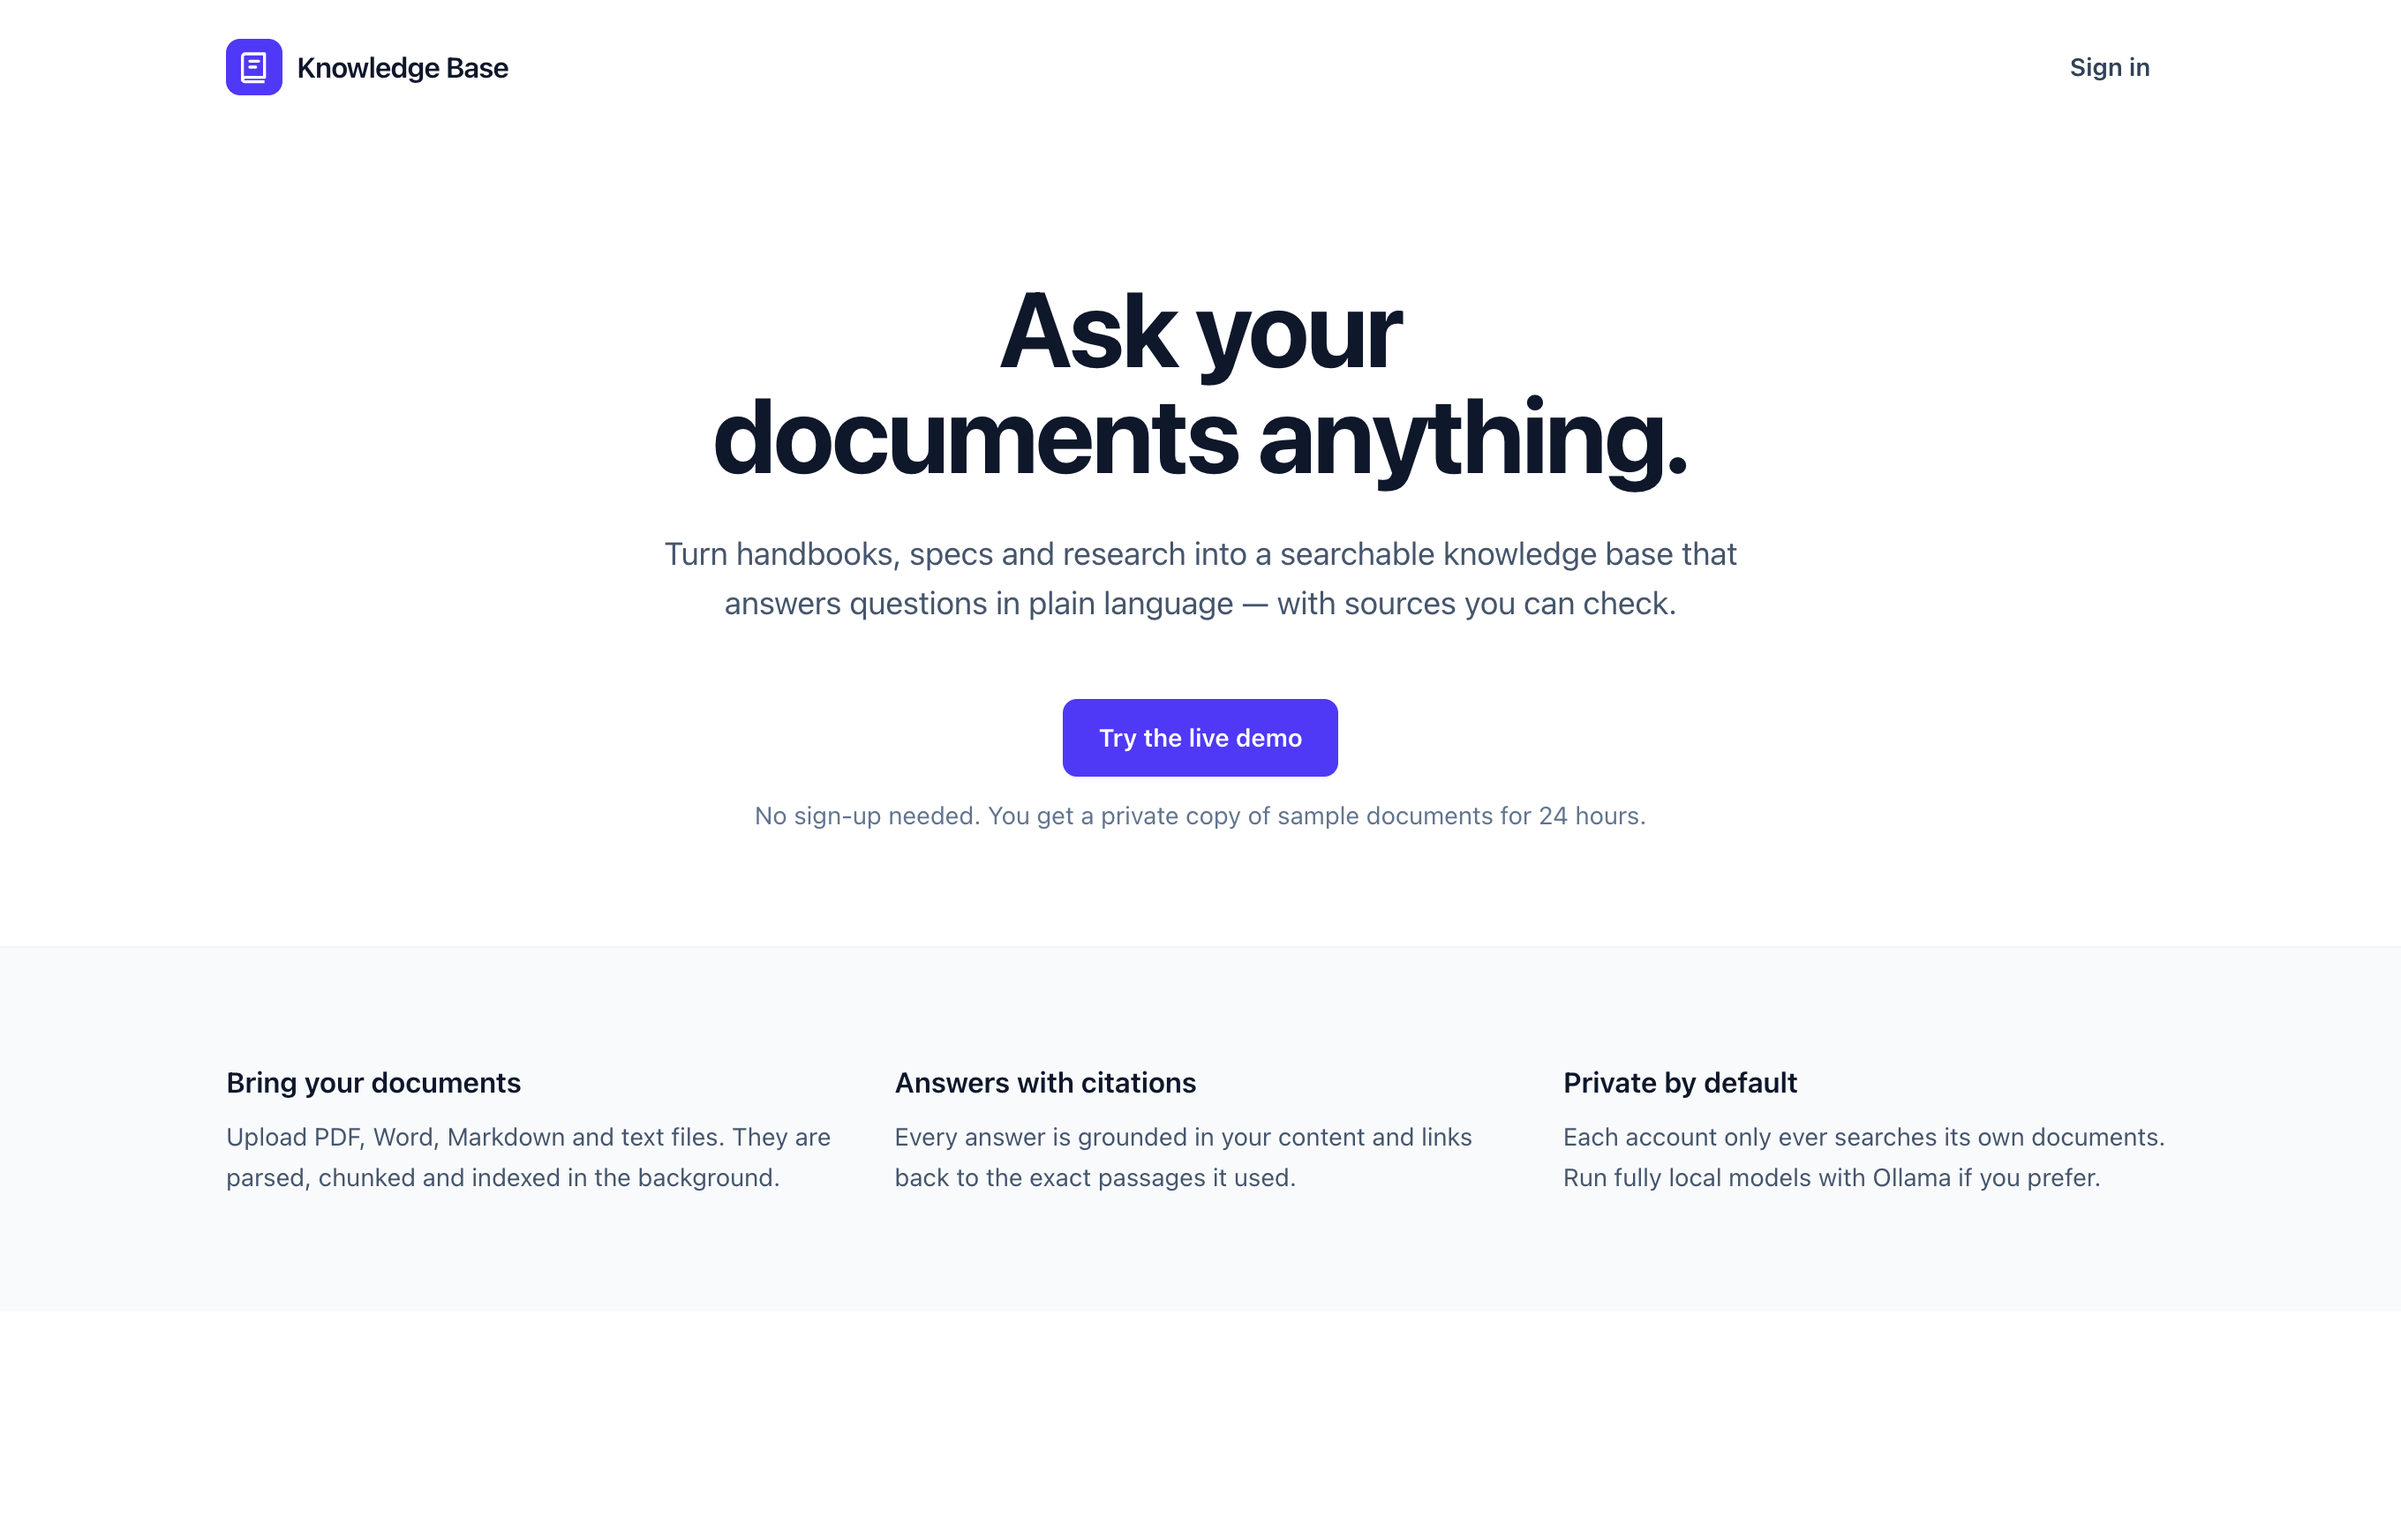
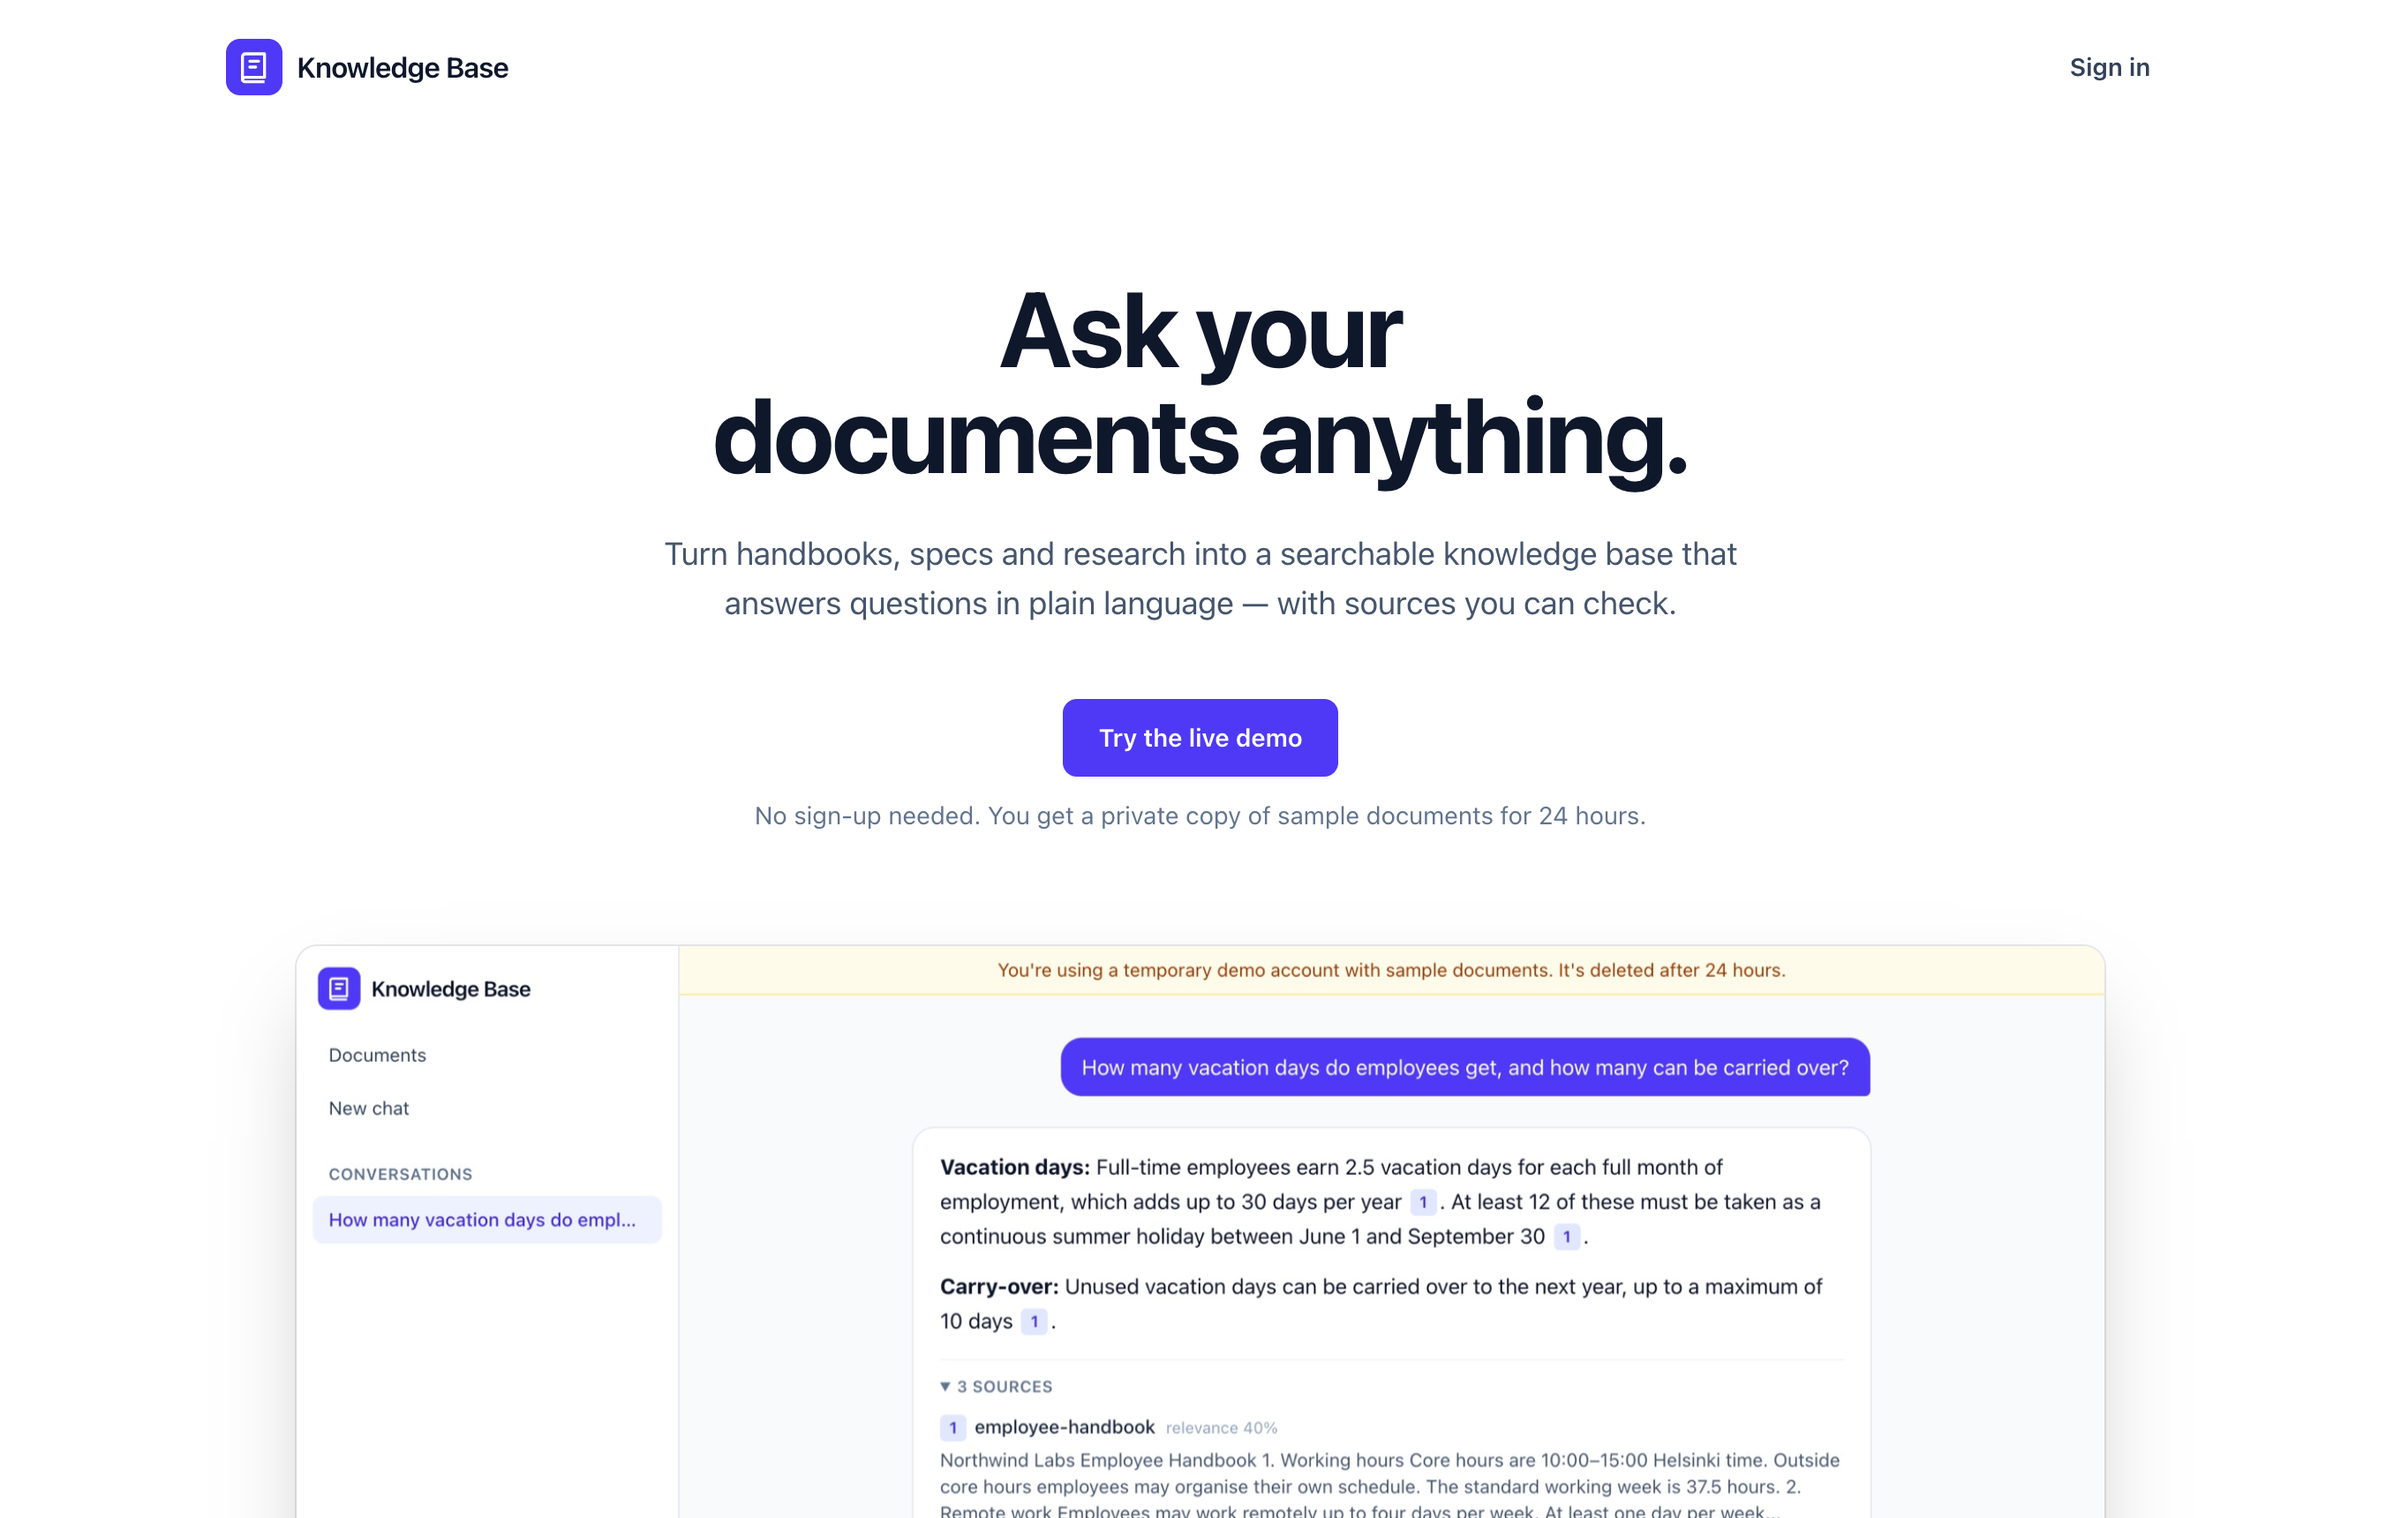
Polish: landing page product image, quiet Caddy logs, new roadmap
- Landing page shows a real product screenshot (a cited answer); the
  template's original image was a 0-byte file and had been removed
- Docker: make Caddy's /data and /config dirs writable for www-data, so
  Render logs no longer show "permission denied" errors at start; the CI
  container smoke test now fails on permission errors in the logs
- README: roadmap rewritten as shipped / next / later / known
  limitations; documents the relevance-cutoff calibration for OpenAI
  embeddings; landing screenshot refreshed

Changed region(s): [[0.375, 0.6779, 0.9062, 1.0], [0.0938, 0.6163, 0.3438, 0.832], [0.4062, 0.6163, 0.75, 0.6471]]

diff --git a/frontend/src/pages/LandingPage.tsx b/frontend/src/pages/LandingPage.tsx
@@ -1,4 +1,5 @@
 import { Link } from 'react-router'
+import productChat from '../assets/product-chat.jpg'
 import { useAuth } from '../auth/useAuth'
 import { DemoButton } from '../components/DemoButton'
 import { Logo } from '../components/ui'
@@ -67,6 +68,14 @@ export function LandingPage() {
               )
             )}
           </div>
+          <img
+            src={productChat}
+            width={2000}
+            height={1264}
+            decoding="async"
+            alt="Knowledge Base answering a question about vacation days, with numbered citations and the source passages it used"
+            className="mx-auto mt-16 h-auto w-full max-w-5xl rounded-xl shadow-2xl ring-1 ring-slate-900/10"
+          />
         </section>
 
         <section className="border-t border-slate-100 bg-slate-50">

diff --git a/README.md b/README.md
@@ -250,6 +250,8 @@ Connect the repository. Use root directory `frontend`, build command `npm run bu
 - **Registration is off** (`KB_REGISTRATION_ENABLED=false`).
 - **Daily caps** bound spend: `KB_LIMIT_QUESTIONS_PER_USER` (15), `KB_LIMIT_QUESTIONS_PER_DAY` (100, all users; about $0.70/day at most with Claude Opus 5.5), `KB_LIMIT_DOCUMENTS_PER_USER` (6), and uploads up to 2 MB.
 
+The relevance cutoff `KB_RETRIEVAL_MIN_SCORE=0.2` was calibrated for `text-embedding-3-small` on the sample documents plus 15 unanswerable questions. Answerable questions scored 0.29–0.61, plausible but uncovered ones ("What is the dress code?") 0.20–0.57, and unrelated ones ("Who won the World Cup?") at most 0.12. So the cutoff filters out unrelated questions before any model call, and the model handles the rest. Recalibrate with `kb:eval --retrieval-only` (and `KB_RETRIEVAL_MIN_SCORE=0`) when you change embedding models: the same questions score much higher with `nomic-embed-text`.
+
 Abuse limits keep a public demo up and its database small. Neon's free tier has 0.5 GB, and a 2 MB text upload alone becomes about 2,000 passages (~19 MB):
 
 | Setting | Demo value | Protects against |
@@ -287,7 +289,26 @@ Streaming answers need a server that doesn't buffer responses. FrankenPHP stream
 
 ## Roadmap
 
-- pgvector `VectorStore` for large corpora
+### Shipped
+- Streamed answers with citations verified against the sources (`CitationRepairer`)
+- `kb:eval`: retrieval and answer quality, citation precision, abstentions and token usage on a sample dataset
+- Chat with Claude, OpenAI or local Ollama; embeddings with OpenAI or Ollama
+- Public demo: guest accounts with sample documents, cost caps, per-visitor abuse limits, daily end-to-end check
+
+### Next
+1. **Durable file storage.** Uploads are lost when the free server restarts, so "Retry" fails for them. Store them in S3-compatible storage such as Cloudflare R2 (`KB_UPLOAD_DISK`).
+2. **Bot protection on "Try the live demo"** with Cloudflare Turnstile. IP limits stop a single abuser; Turnstile also stops distributed ones.
+3. **Hybrid search and reranking.** Combine keyword search with vector search so exact terms and numbers are found reliably, then rerank the results. Relevance scores alone don't separate good matches from bad ones (see the calibration under [Public demo mode](#public-demo-mode)).
+4. **A bigger evaluation set.** More documents, harder questions, and citation checks at passage level rather than document level.
+5. **Cited passages in context.** Clicking a citation opens the document with the passage highlighted.
+
+### Later
 - OCR for scanned PDFs
-- Email verification and password reset
-- Workspaces / shared knowledge bases
+- pgvector `VectorStore` for collections far larger than the demo's
+- Email verification and password reset (before opening sign-ups)
+- Workspaces: teams sharing one knowledge base
+
+### Known limitations
+- On free hosting, the first request after 15 idle minutes takes up to a minute while the server wakes up.
+- Citation checking matches words, not meaning: a reworded fact is left uncited rather than guessed.
+- Turning away unrelated questions relies mainly on the model, because relevance scores overlap.
